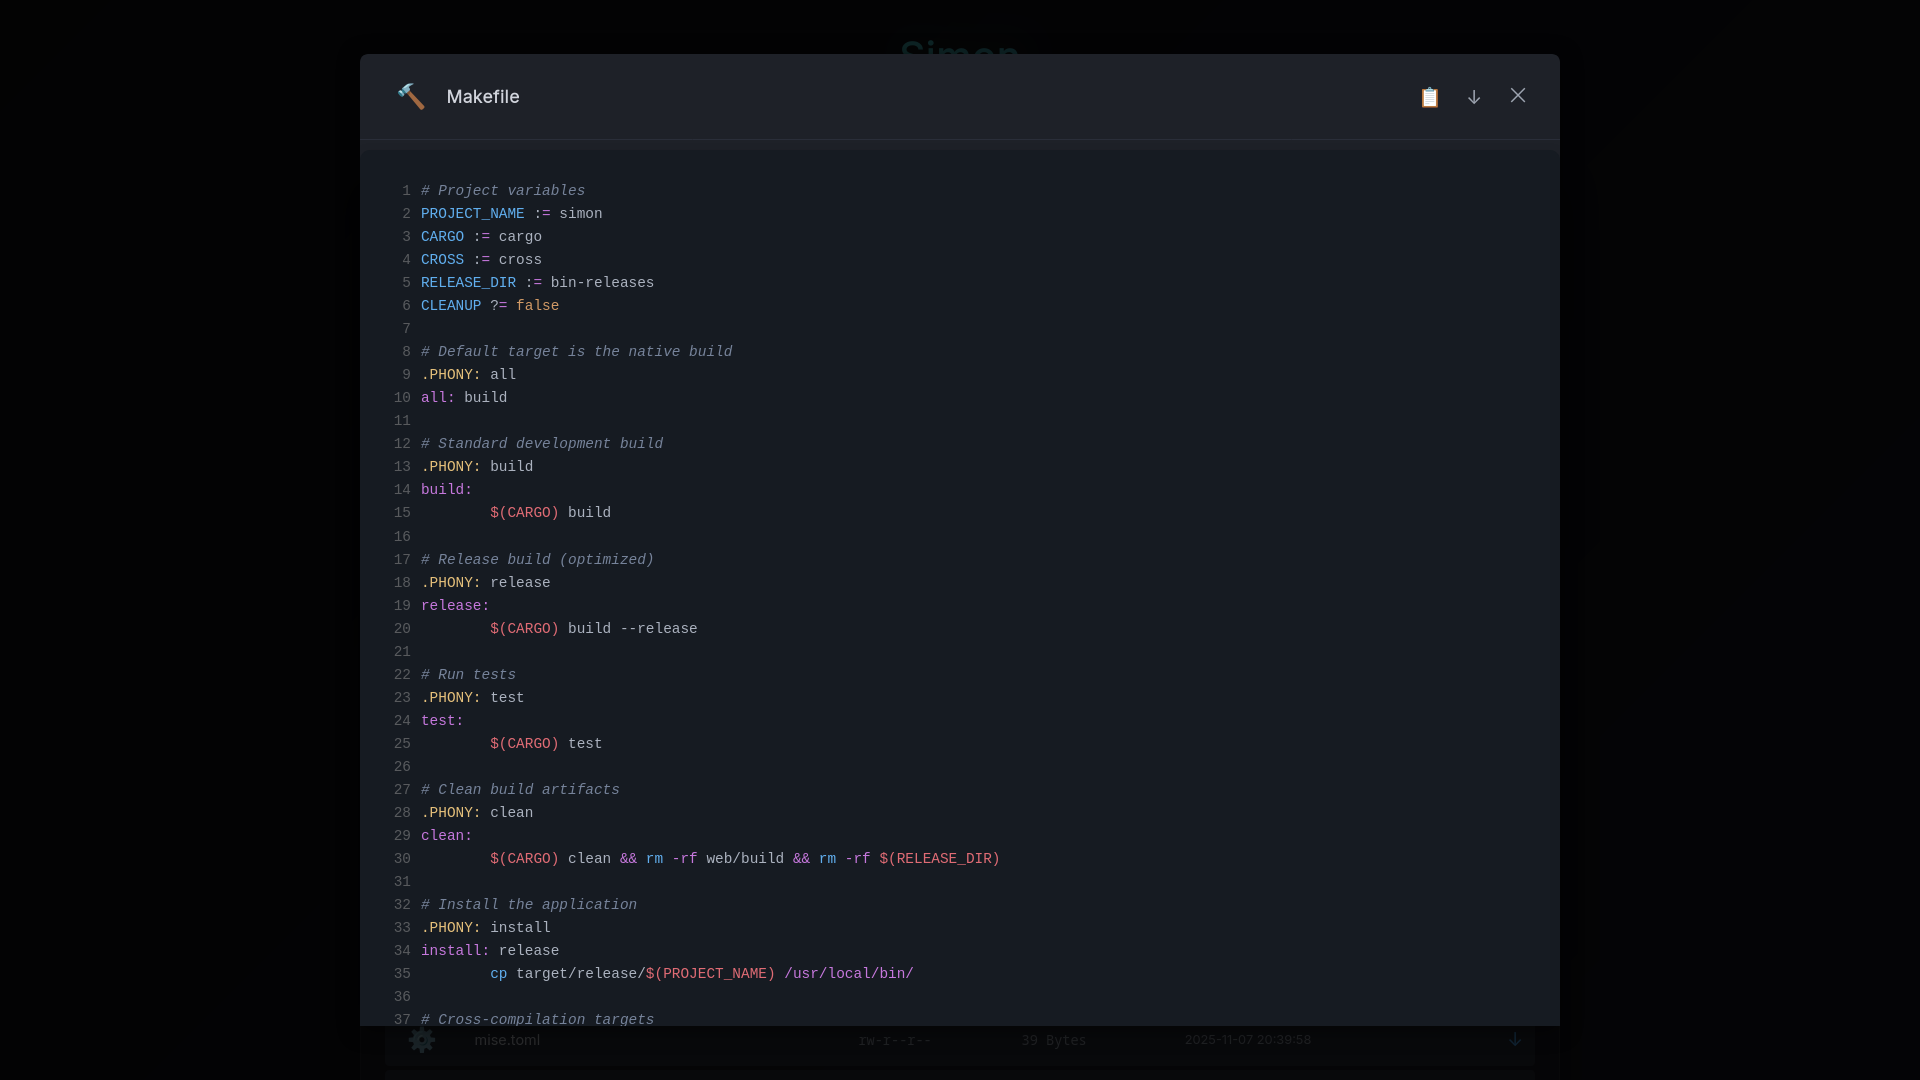
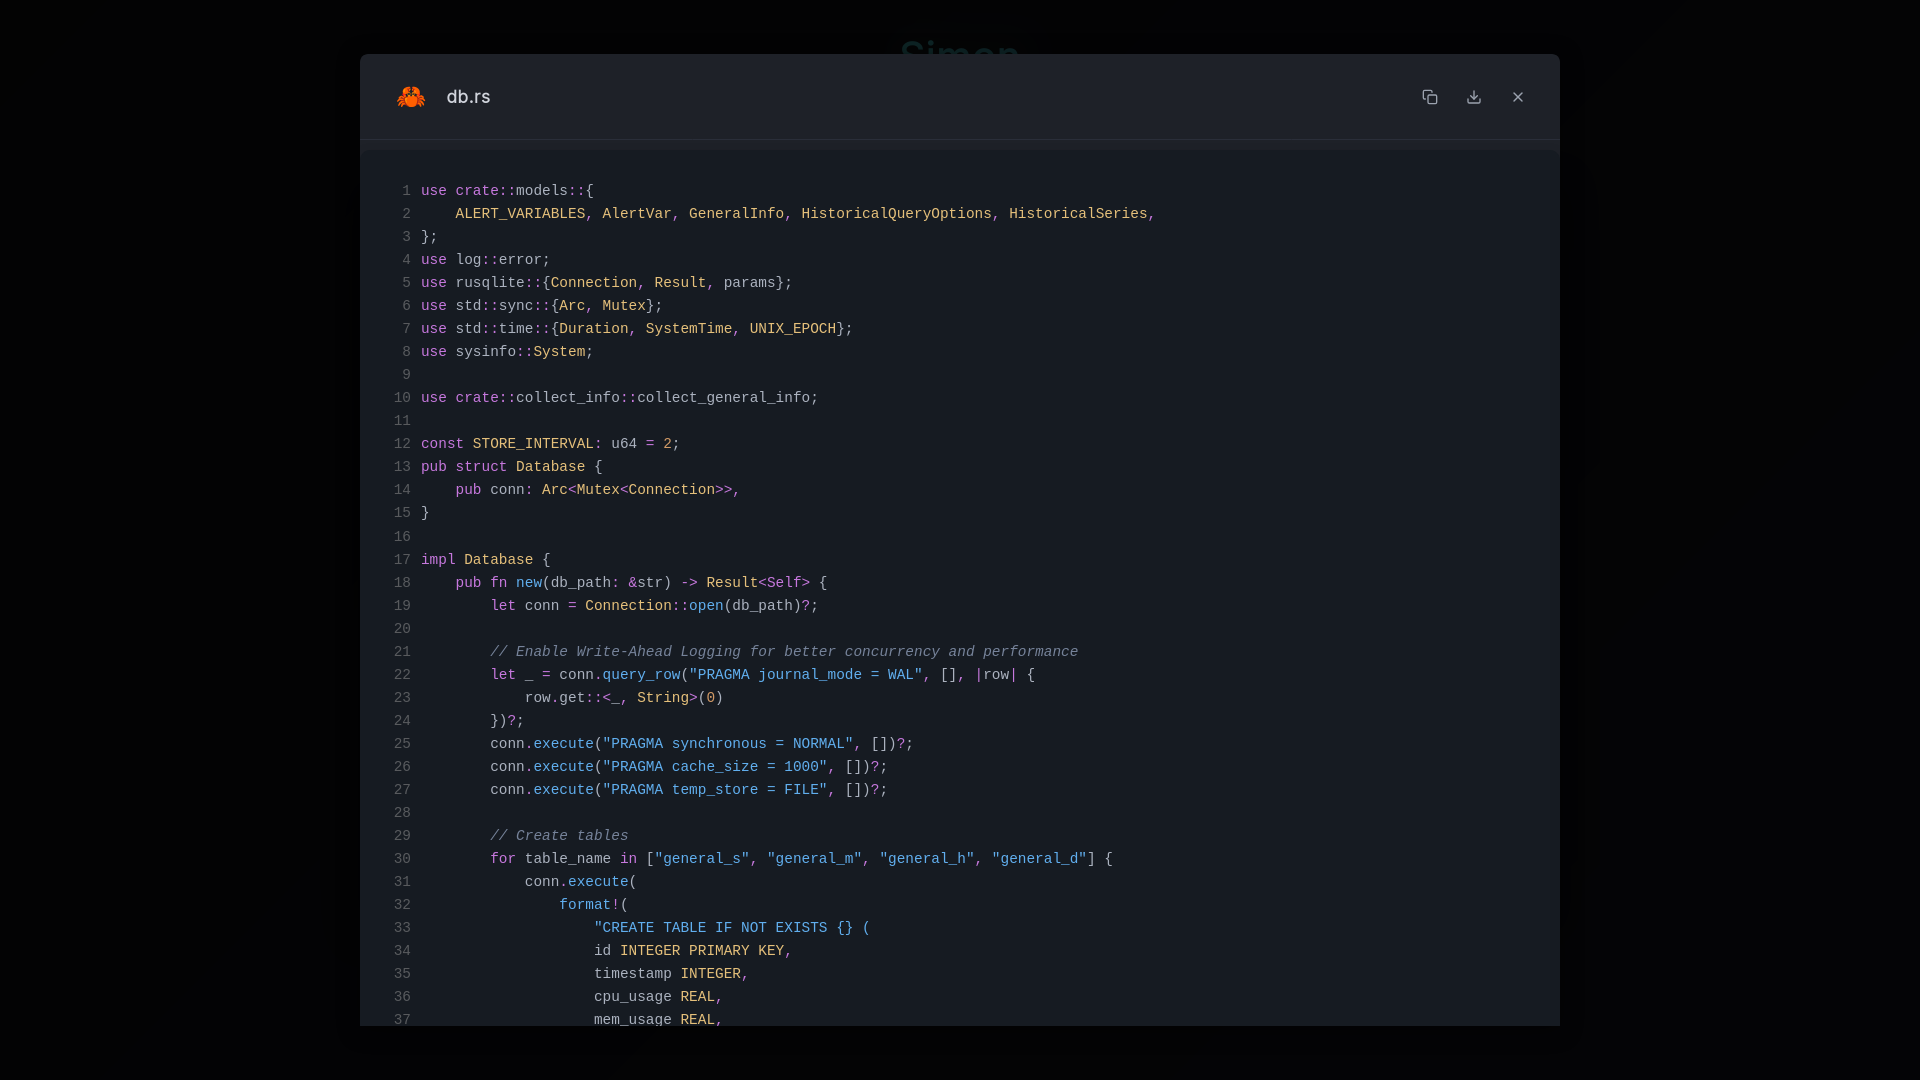
docs: update screenshots

diff --git a/docs/SCREENSHOTS.md b/docs/SCREENSHOTS.md
@@ -3,7 +3,7 @@
 ## Demo Video
 
 
-https://github.com/user-attachments/assets/c8de7765-db7d-49cd-8182-54b91091d01c
+https://github.com/user-attachments/assets/add0e7f3-5f87-408e-a3bd-6189c1c1ee4d
 
 
 ---
@@ -64,6 +64,12 @@ https://github.com/user-attachments/assets/c8de7765-db7d-49cd-8182-54b91091d01c
 <p align="center">
   <img src="media/screenshots/file-preview.png" alt="File Preview">
   <br><em>Preview file contents directly in browser with syntax highlighting</em>
+</p>
+
+### File Upload
+<p align="center">
+  <img src="media/screenshots/file-upload.png" alt="File Preview">
+  <br><em>Upload files and folders</em>
 </p>
 
 ---